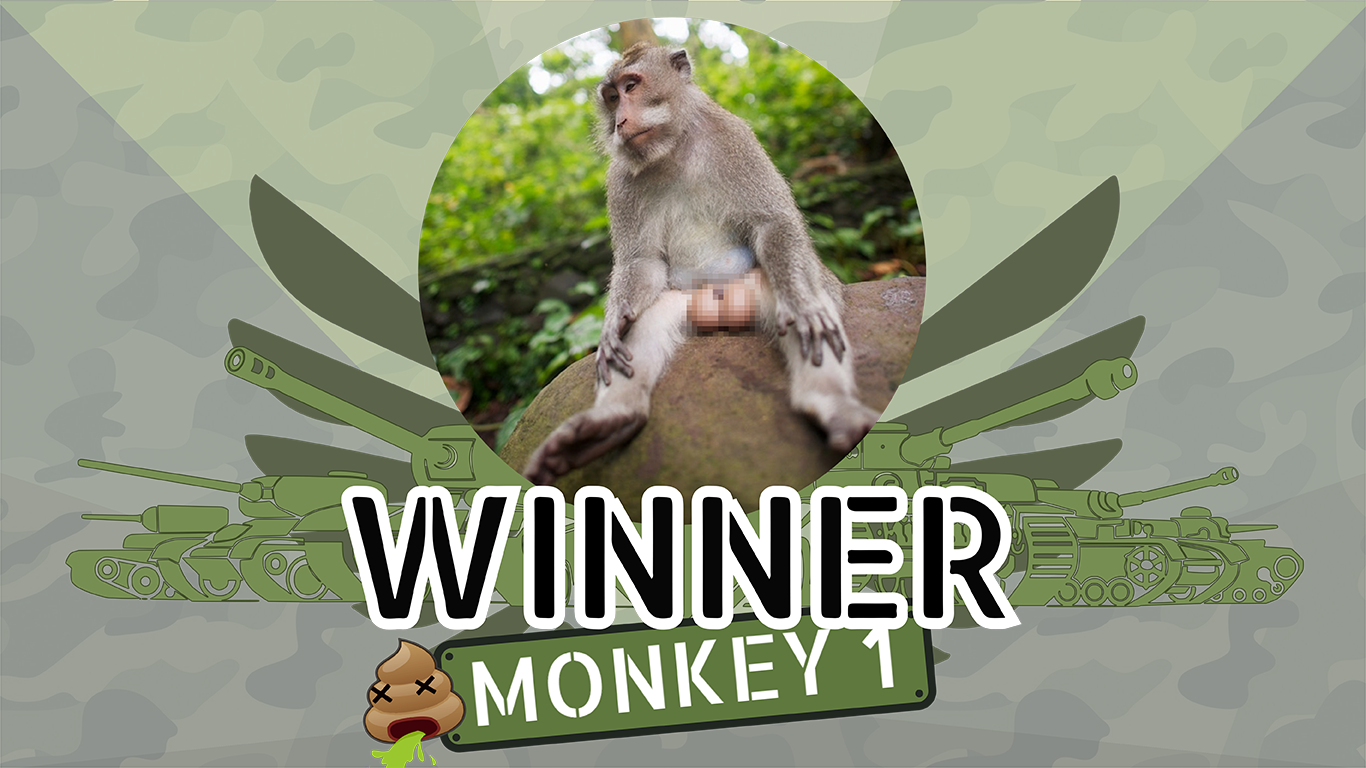
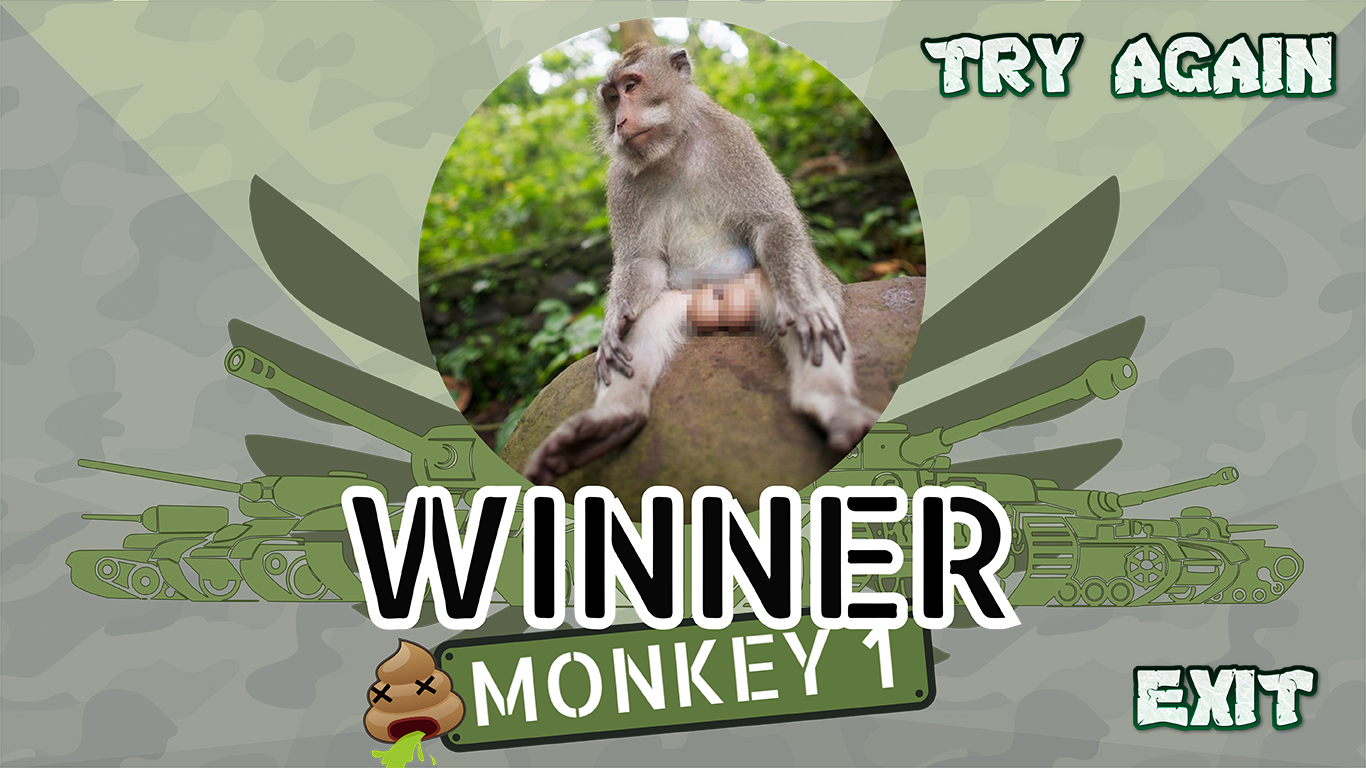
added logic to last menu

Changed region(s): [[0.6764, 0.0312, 0.9839, 0.1562], [0.8302, 0.8438, 0.9839, 0.9688]]

diff --git a/game-project/src/org/academiadecodigo/allpainnogain/gameproject/Screens/Guide.java b/game-project/src/org/academiadecodigo/allpainnogain/gameproject/Screens/Guide.java
@@ -10,7 +10,7 @@ import org.academiadecodigo.simplegraphics.pictures.Picture;
 public class Guide implements KeyboardHandler {
 
     private Keyboard keyboard;
-    private Picture pictureGuide = new Picture(0, 0, "fiveTrees.png"); //missing correct picture
+    private Picture pictureGuide = new Picture(0, 0, "guide.png"); //missing correct picture
 
     private boolean goBack;
     private boolean hasGuide;
@@ -40,7 +40,7 @@ public class Guide implements KeyboardHandler {
     public void initKeyboard() {
 
         KeyboardEvent goBack = new KeyboardEvent();
-        goBack.setKey(KeyboardEvent.KEY_0);
+        goBack.setKey(KeyboardEvent.KEY_SPACE);
         goBack.setKeyboardEventType(KeyboardEventType.KEY_PRESSED);
 
         keyboard.addEventListener(goBack);
@@ -50,7 +50,7 @@ public class Guide implements KeyboardHandler {
     @Override
     public void keyPressed(KeyboardEvent keyboardEvent) {
 
-        if (keyboardEvent.getKey() == KeyboardEvent.KEY_0) {
+        if (keyboardEvent.getKey() == KeyboardEvent.KEY_SPACE) {
             deleteGuide();
             goBack = true;
         }

diff --git a/game-project/src/org/academiadecodigo/allpainnogain/gameproject/Screens/WinnerScreen.java b/game-project/src/org/academiadecodigo/allpainnogain/gameproject/Screens/WinnerScreen.java
@@ -1,5 +1,6 @@
 package org.academiadecodigo.allpainnogain.gameproject.Screens;
 
+import org.academiadecodigo.allpainnogain.gameproject.BattleField;
 import org.academiadecodigo.allpainnogain.gameproject.Collidable;
 import org.academiadecodigo.allpainnogain.gameproject.Players.Player;
 import org.academiadecodigo.allpainnogain.gameproject.Players.Player1;
@@ -20,8 +21,8 @@ public class WinnerScreen implements KeyboardHandler {
     private Picture pictureWinnerScreenPlayer2 = new Picture(0, 0, "winner2.png");
 
     //change values of rectangle
-    private Rectangle selectTryAgain = new Rectangle(380, 360,620,160);
-    private Rectangle selectExit = new Rectangle(520, 520,335,160);
+    private Rectangle selectTryAgain = new Rectangle(BattleField.WIDTH-340, 15,450,100);
+    private Rectangle selectExit = new Rectangle(BattleField.WIDTH-130, BattleField.HEIGHT,220,100);
 
     private boolean rectangleTryAgain = true;
     private boolean rectangleExit;
